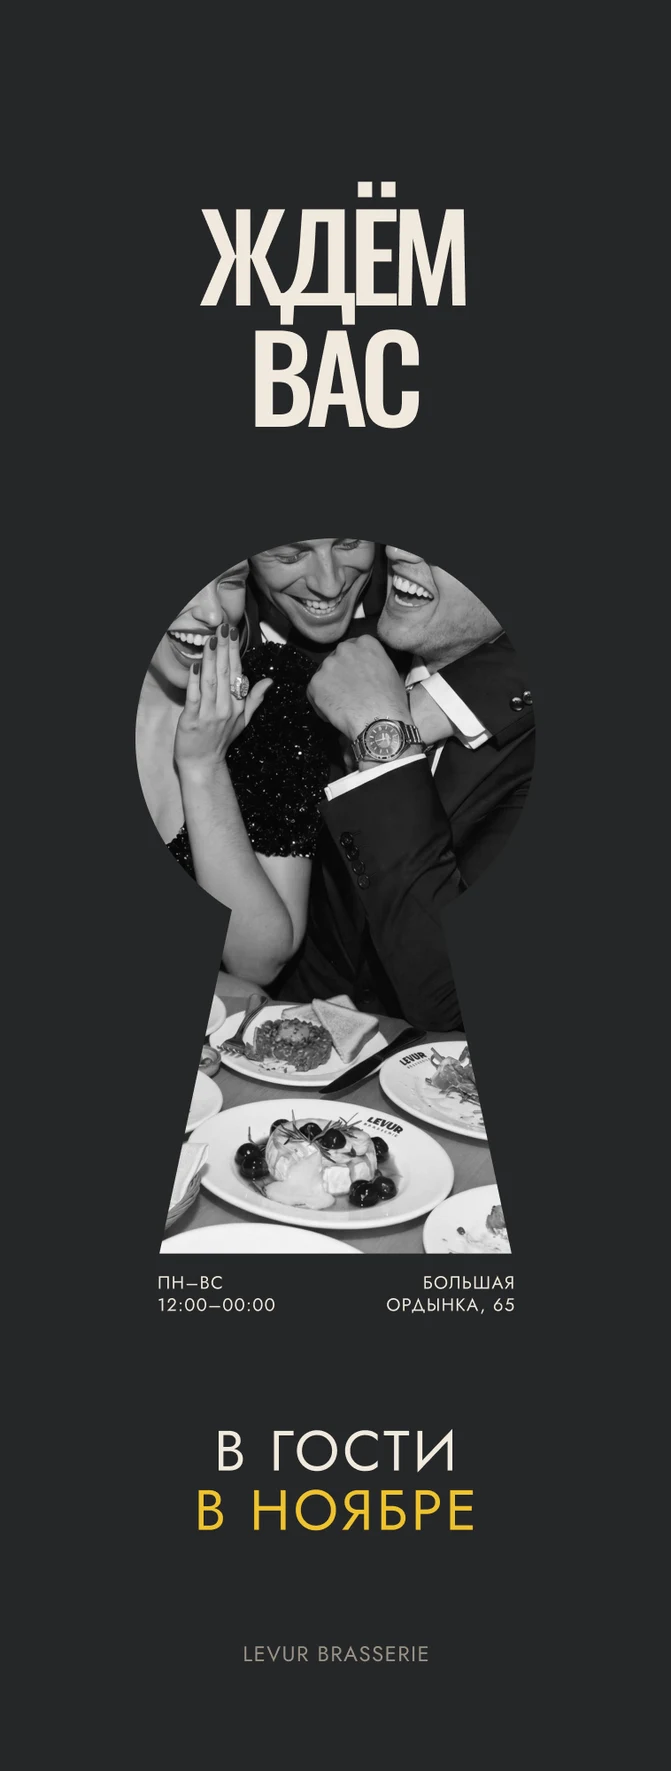
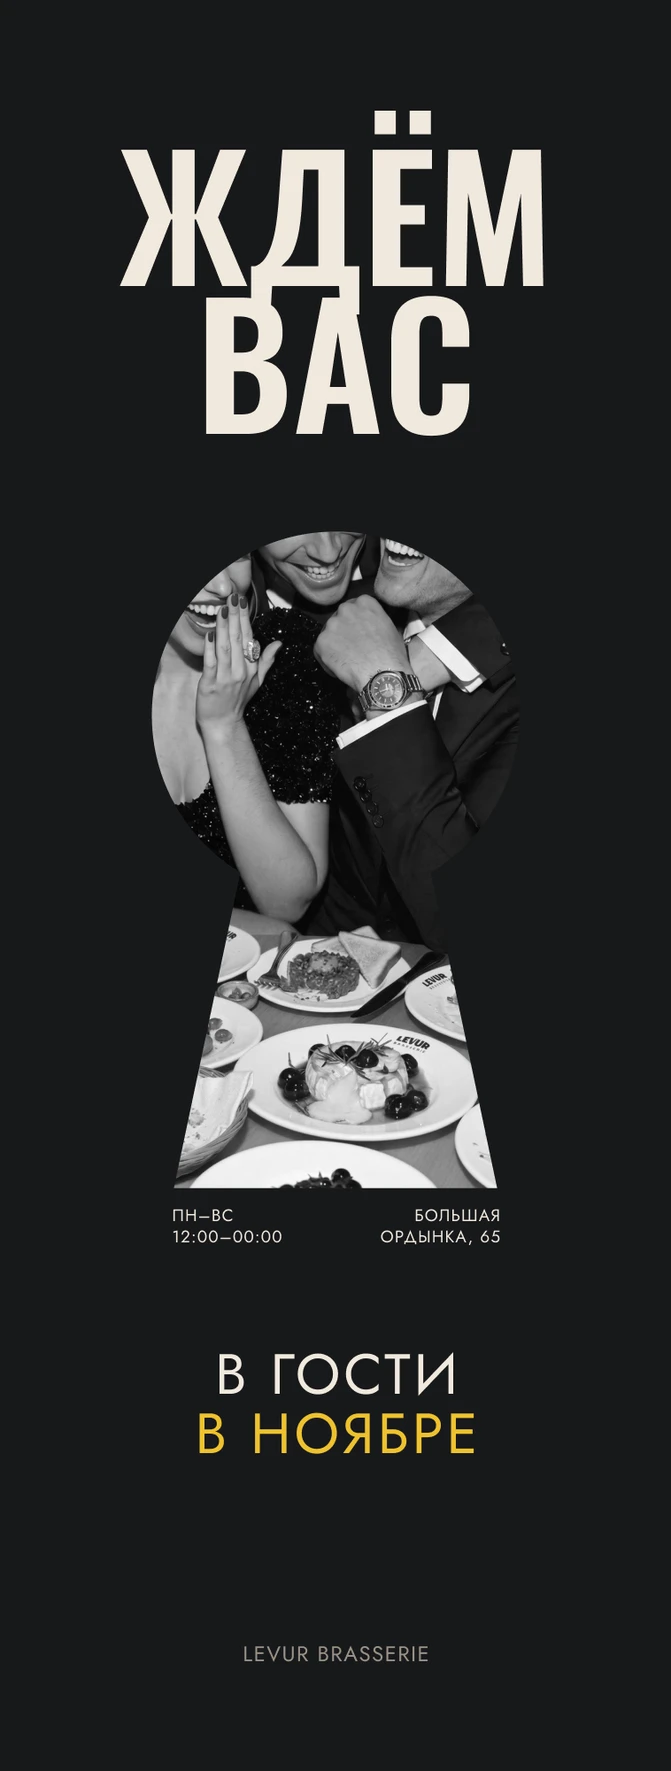
Жёлтый акцент: обводка скважины в ЧБ варианте 1 и в чёрной антикве

Changed region(s): [[0.1788, 0.2795, 0.775, 0.8696], [0.1788, 0.0621, 0.8346, 0.2484]]

diff --git a/index.html b/index.html
@@ -171,14 +171,14 @@
           </div>
           <div class="shade"></div>
         </div></div>
-        <figcaption>Вариант 1<span class="opts" role="group" aria-label="Цвет фото"><button type="button" data-img="k1" data-src="door-3d/sticker-keyhole.webp?v=20261028i" aria-pressed="true">Цвет</button><button type="button" data-img="k1" data-src="door-3d/sticker-keyhole-bw.webp?v=20261028n" aria-pressed="false">ЧБ</button></span></figcaption>
+        <figcaption>Вариант 1<span class="opts" role="group" aria-label="Цвет фото"><button type="button" data-img="k1" data-src="door-3d/sticker-keyhole.webp?v=20261028i" aria-pressed="true">Цвет</button><button type="button" data-img="k1" data-src="door-3d/sticker-keyhole-bw.webp?v=20261028o" aria-pressed="false">ЧБ</button></span></figcaption>
       </figure>
       <figure>
         <div class="frame"><div class="view" role="button" tabindex="0" aria-label="Открыть на весь экран">
           <div class="plate">
             <div class="ly" data-depth="0.35">
               <img class="leaf" src="door-3d/door.webp" alt="">
-              <img class="sticker" id="k2" src="door-3d/sticker-poster-grotesk-black.webp?v=20261028n" alt="Постер «Ждём вас в гости в ноябре» с фото в форме замочной скважины на стекле двери LEVUR">
+              <img class="sticker" id="k2" src="door-3d/sticker-poster-grotesk-black.webp?v=20261028o" alt="Постер «Ждём вас в гости в ноябре» с фото в форме замочной скважины на стекле двери LEVUR">
               <div class="sheen"></div>
             </div>
             <div class="ly" data-depth="1">
@@ -320,9 +320,9 @@
   const k2 = document.getElementById('k2'), k2sw = document.getElementById('k2sw');
   const k2fontBtns = [...document.querySelectorAll('[data-k2font]')], k2colBtns = [...k2sw.querySelectorAll('[data-k2c]')];
   const K2 = {
-    grotesk: { light: 'door-3d/sticker-poster-grotesk-light.webp?v=20261028n', black: 'door-3d/sticker-poster-grotesk-black.webp?v=20261028n',
+    grotesk: { light: 'door-3d/sticker-poster-grotesk-light.webp?v=20261028n', black: 'door-3d/sticker-poster-grotesk-black.webp?v=20261028o',
                green: 'door-3d/sticker-poster-grotesk-green.webp?v=20261028n', wine: 'door-3d/sticker-poster-grotesk-wine.webp?v=20261028n' },
-    serif: { light: 'door-3d/sticker-poster-serif.webp?v=20261028e', black: 'door-3d/sticker-poster-serif-dark.webp?v=20261028h',
+    serif: { light: 'door-3d/sticker-poster-serif.webp?v=20261028e', black: 'door-3d/sticker-poster-serif-dark.webp?v=20261028o',
              green: 'door-3d/sticker-poster-serif-dark-green.webp?v=20261028j', wine: 'door-3d/sticker-poster-serif-dark-wine.webp?v=20261028j' },
   };
   const k2st = { font: 'grotesk', color: { grotesk: 'black', serif: 'black' } };
